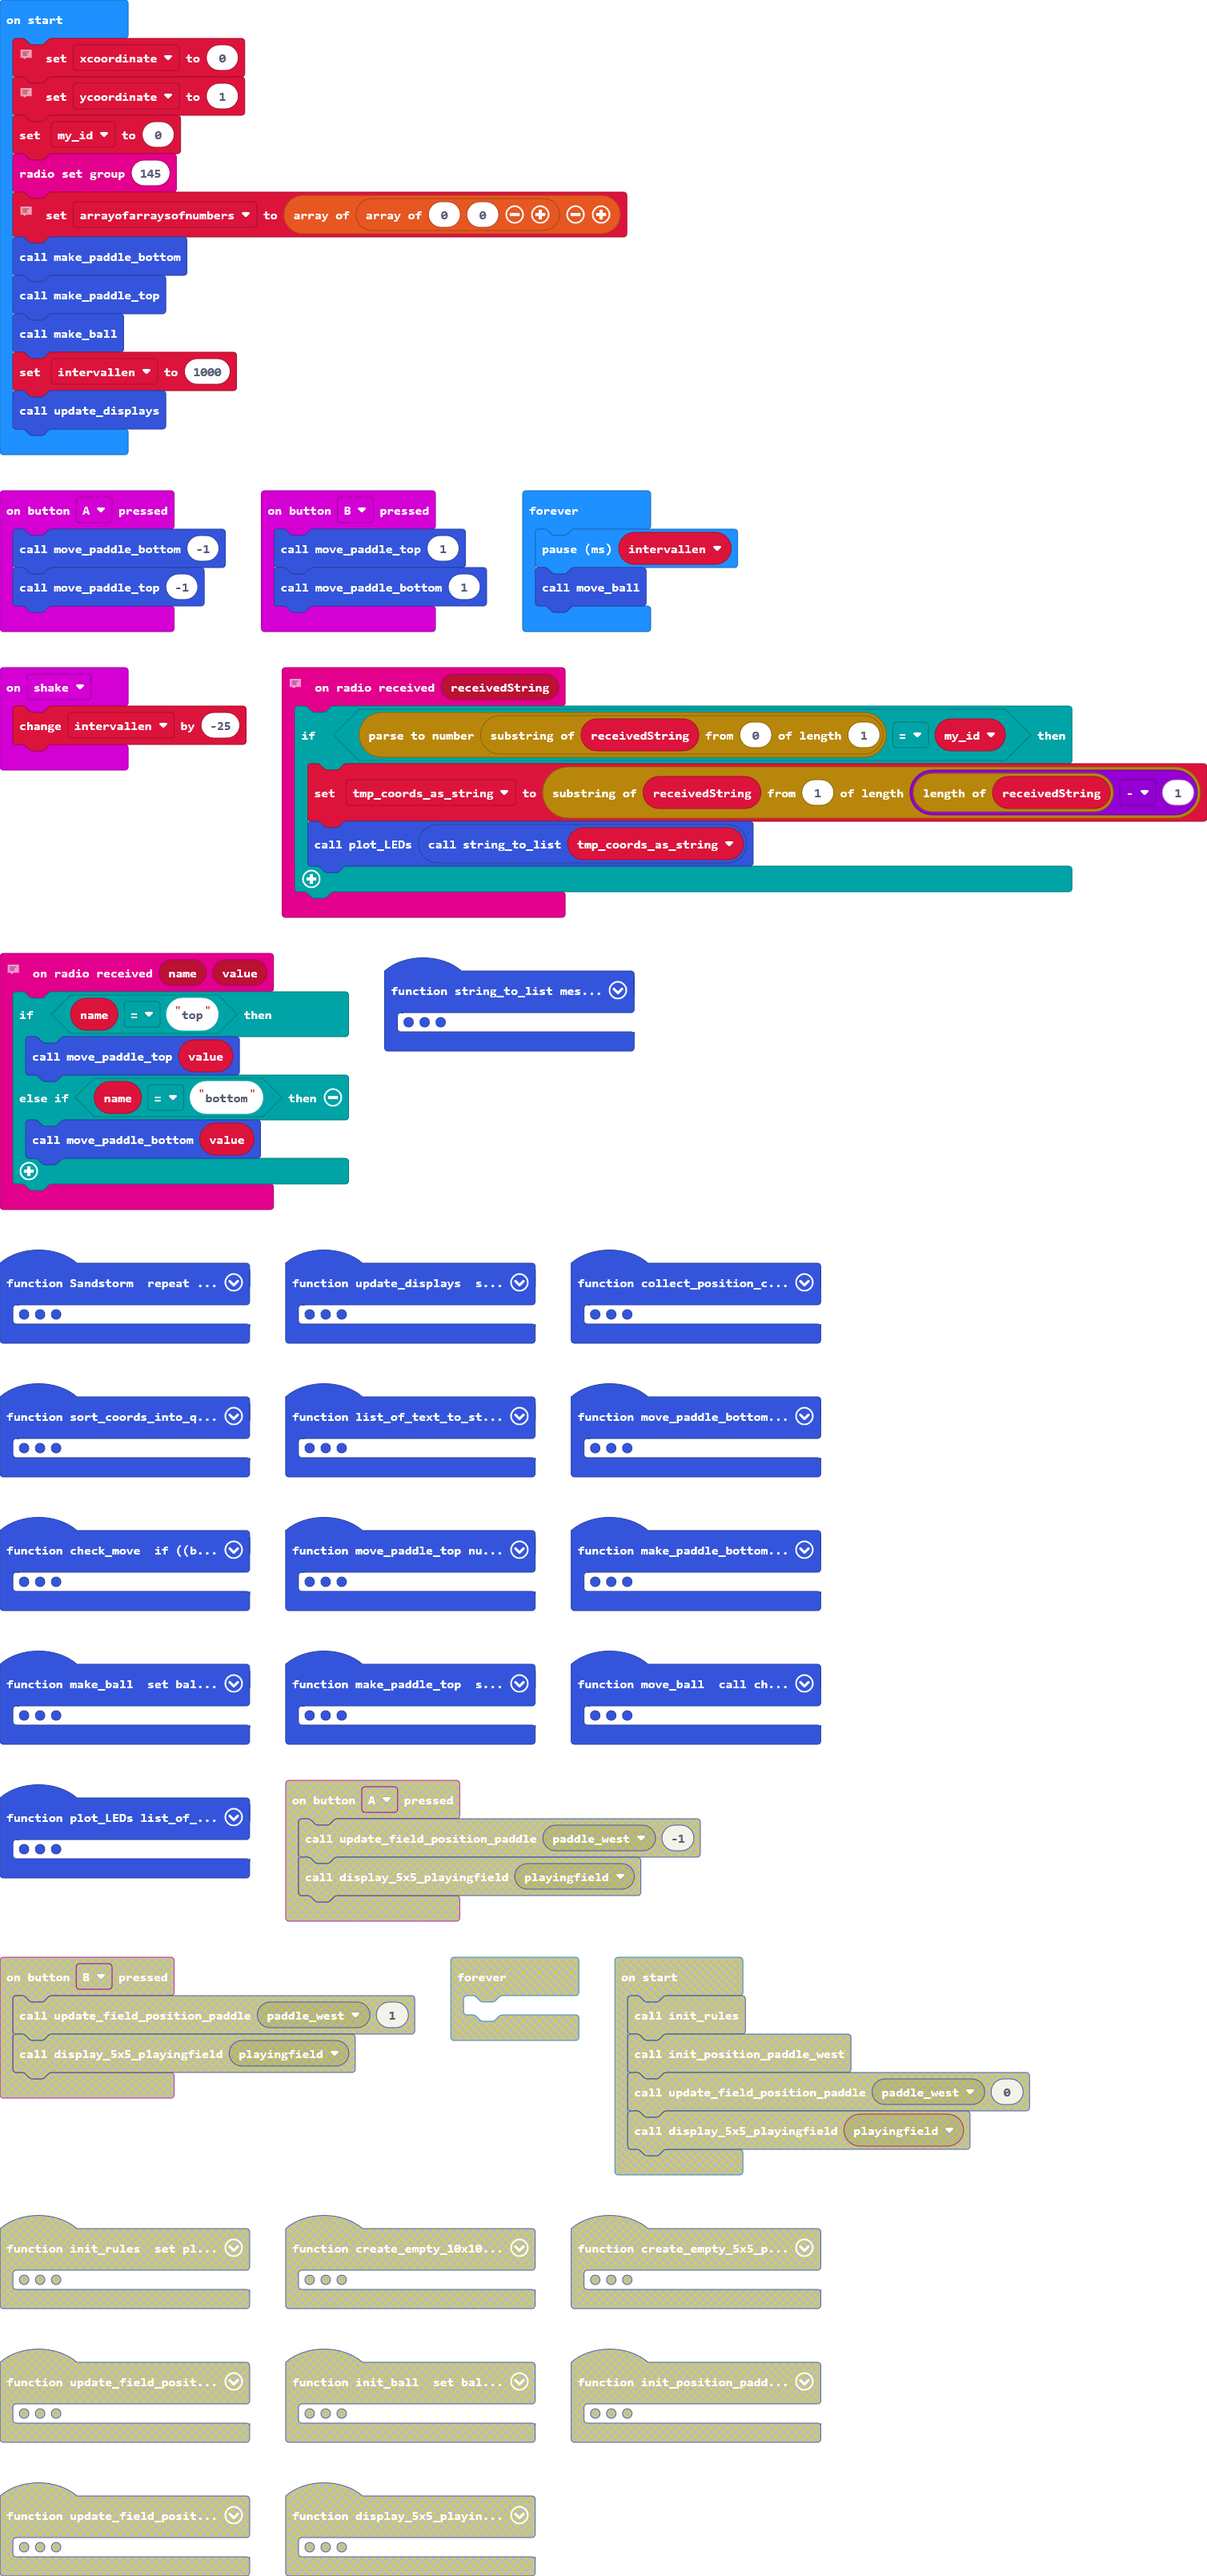
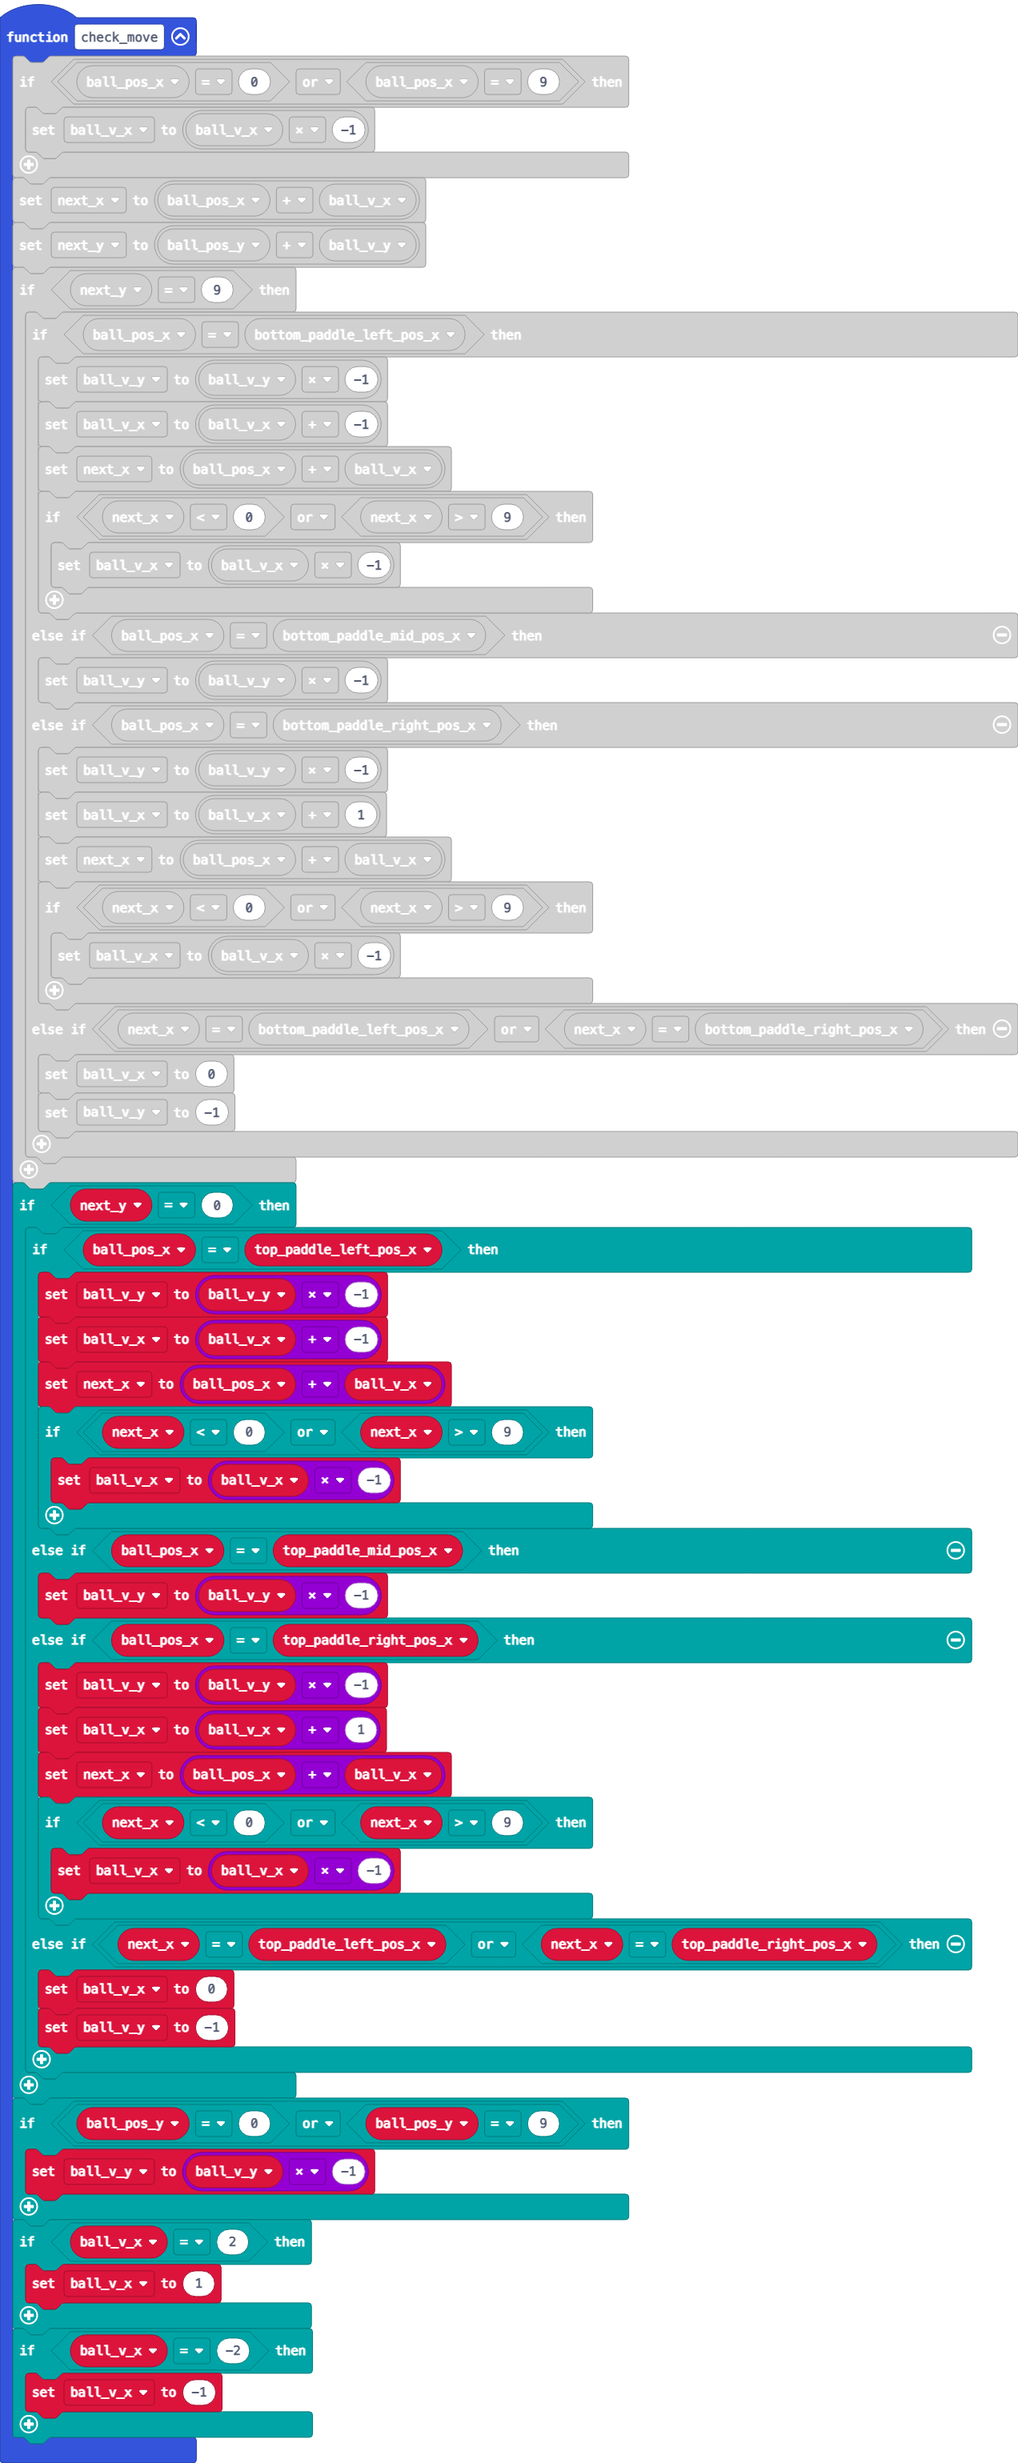
Upper_Paddle-ball collision fixed.

diff --git a/main.ts b/main.ts
@@ -163,6 +163,28 @@ function check_move () {
             ball_v_y = -1
         }
     }
+    if (next_y == 0) {
+        if (ball_pos_x == top_paddle_left_pos_x) {
+            ball_v_y = ball_v_y * -1
+            ball_v_x = ball_v_x + -1
+            next_x = ball_pos_x + ball_v_x
+            if (next_x < 0 || next_x > 9) {
+                ball_v_x = ball_v_x * -1
+            }
+        } else if (ball_pos_x == top_paddle_mid_pos_x) {
+            ball_v_y = ball_v_y * -1
+        } else if (ball_pos_x == top_paddle_right_pos_x) {
+            ball_v_y = ball_v_y * -1
+            ball_v_x = ball_v_x + 1
+            next_x = ball_pos_x + ball_v_x
+            if (next_x < 0 || next_x > 9) {
+                ball_v_x = ball_v_x * -1
+            }
+        } else if (next_x == top_paddle_left_pos_x || next_x == top_paddle_right_pos_x) {
+            ball_v_x = 0
+            ball_v_y = -1
+        }
+    }
     if (ball_pos_y == 0 || ball_pos_y == 9) {
         ball_v_y = ball_v_y * -1
     }
